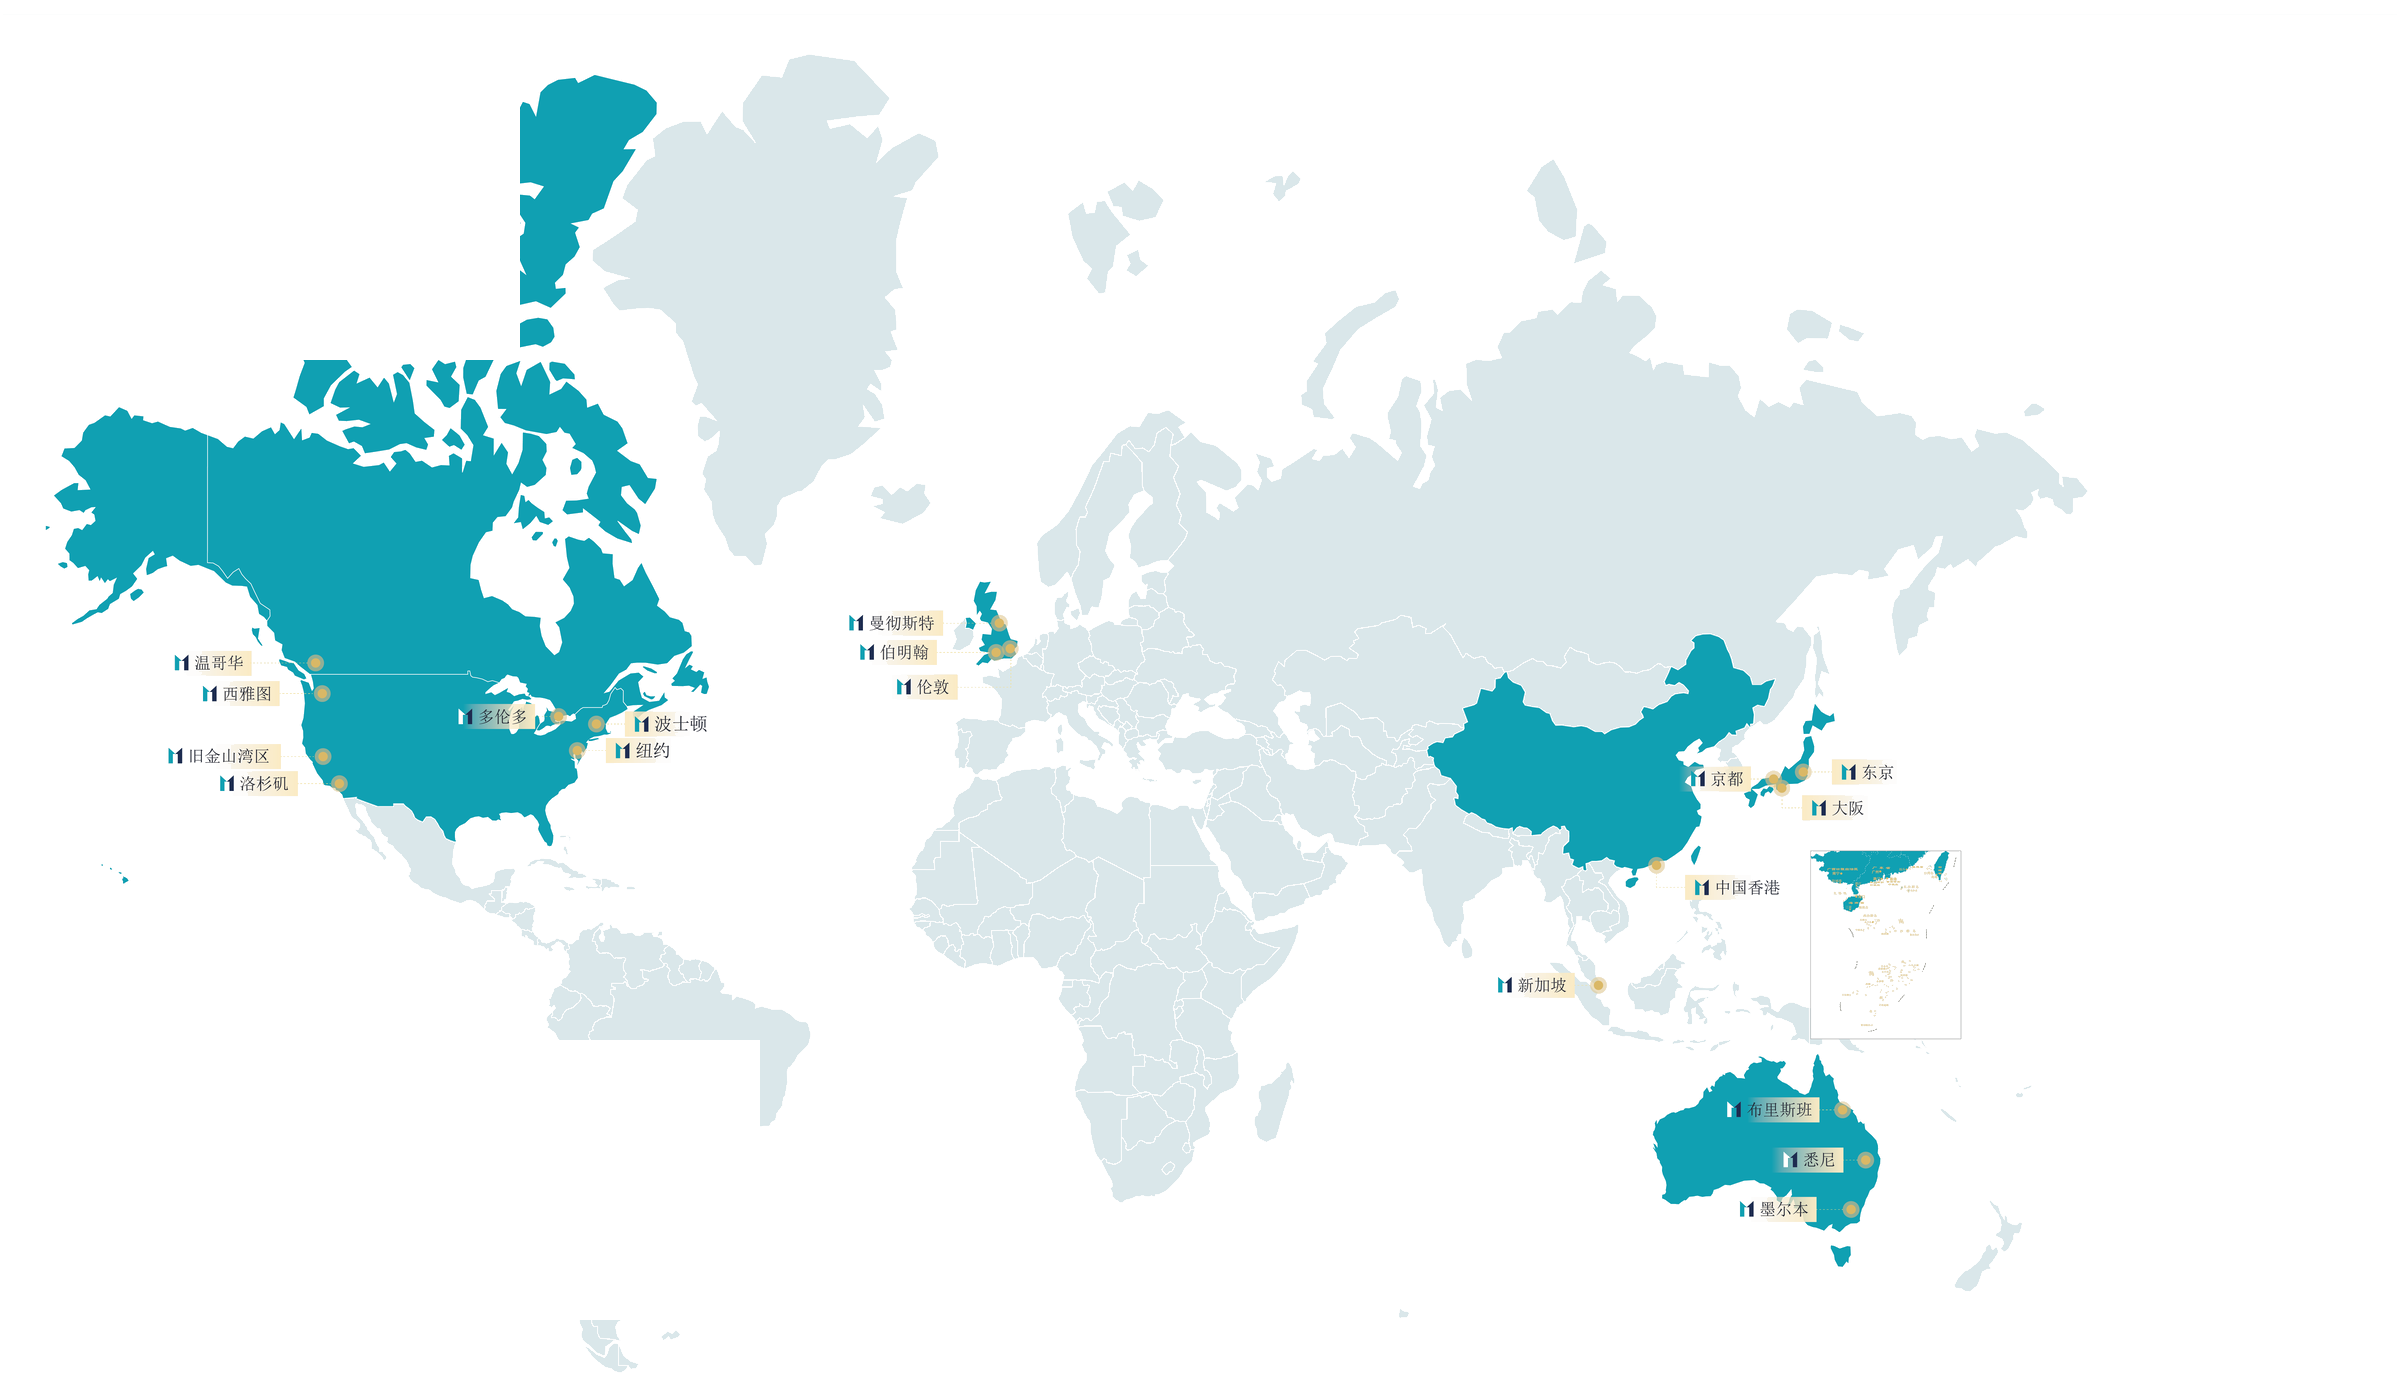
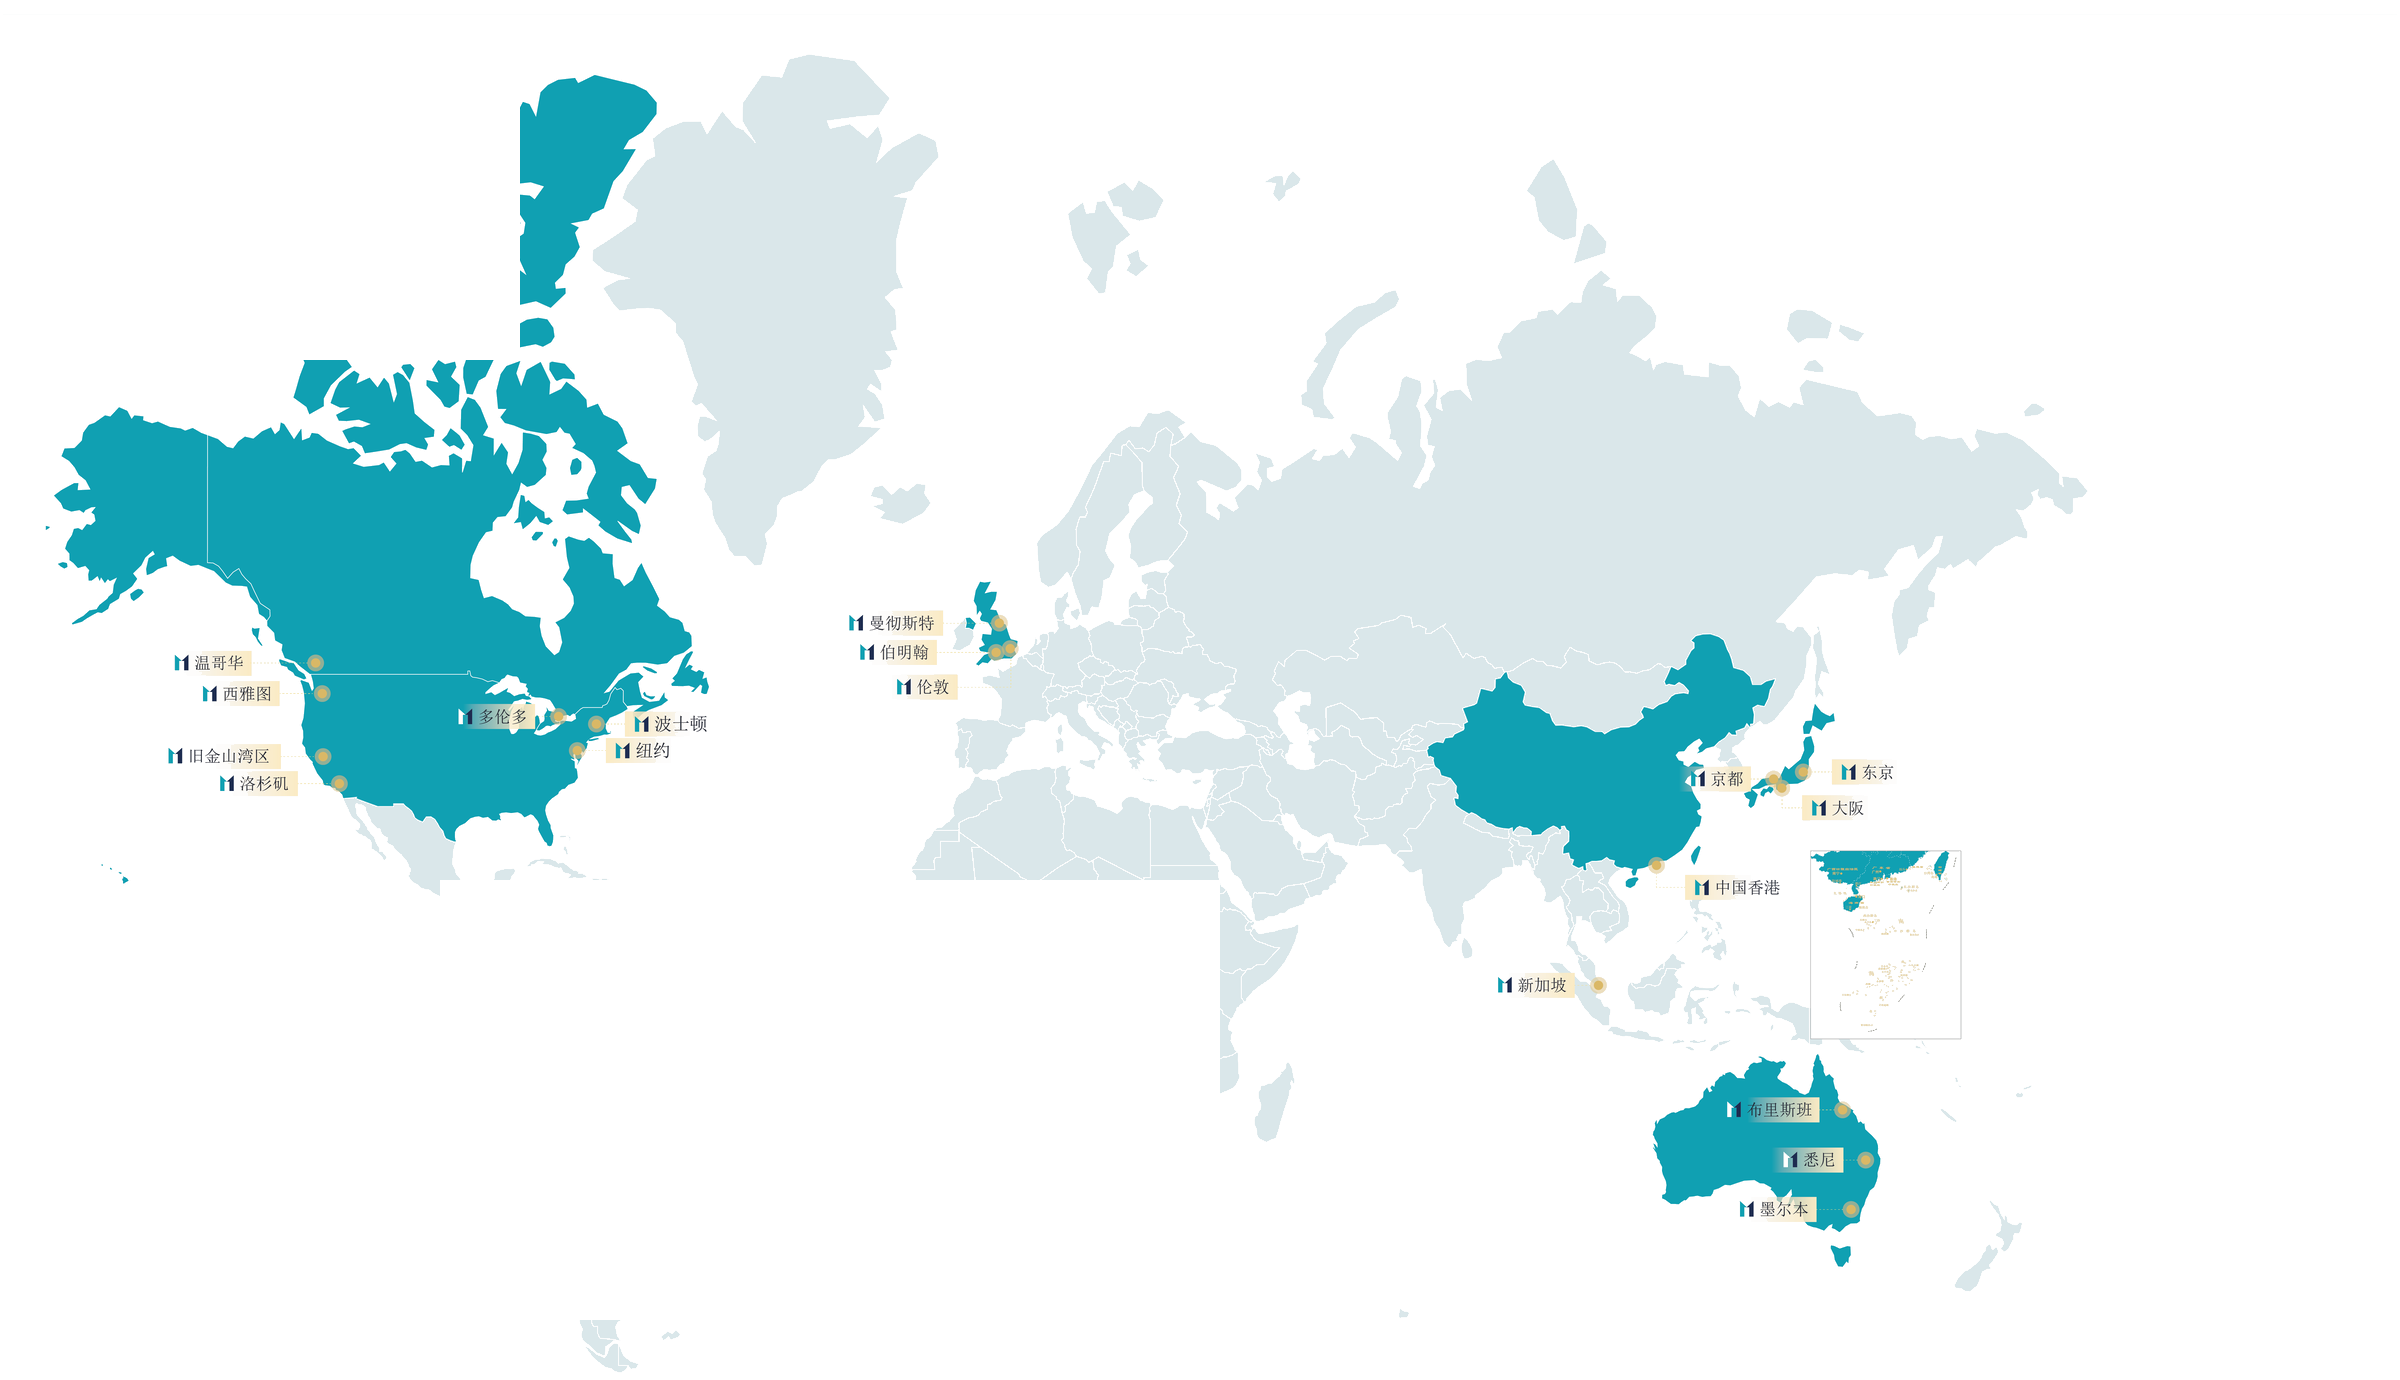
Soften PDF cover map edge

Changed region(s): [[0.375, 0.6232, 0.5312, 0.8725], [0.1875, 0.6232, 0.3438, 0.8101]]

diff --git a/index.html b/index.html
@@ -835,12 +835,14 @@
     }
     .export-cover-map {
       position: absolute;
-      right: -28mm;
-      bottom: 18mm;
-      width: 226mm;
+      right: -42mm;
+      bottom: 20mm;
+      width: 214mm;
       height: auto;
-      opacity: 0.72;
+      opacity: 0.78;
       z-index: 1;
+      -webkit-mask-image: linear-gradient(90deg, transparent 0%, rgba(0,0,0,0.16) 18%, #000 42%, #000 100%);
+      mask-image: linear-gradient(90deg, transparent 0%, rgba(0,0,0,0.16) 18%, #000 42%, #000 100%);
     }
     .export-cover-content {
       position: relative;